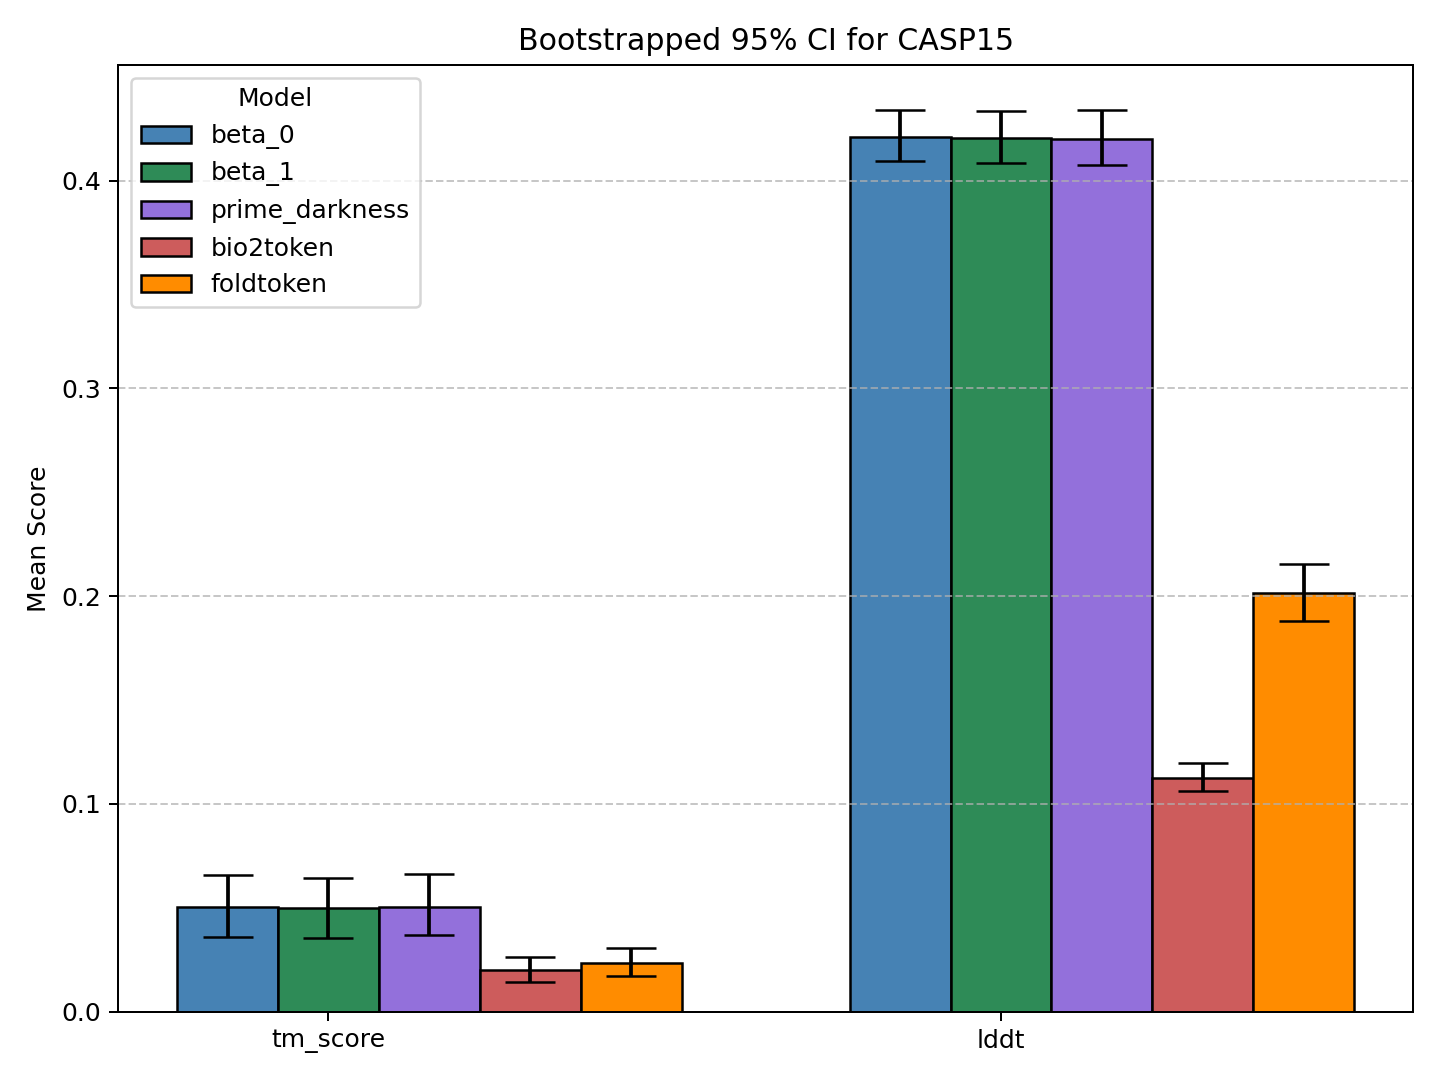
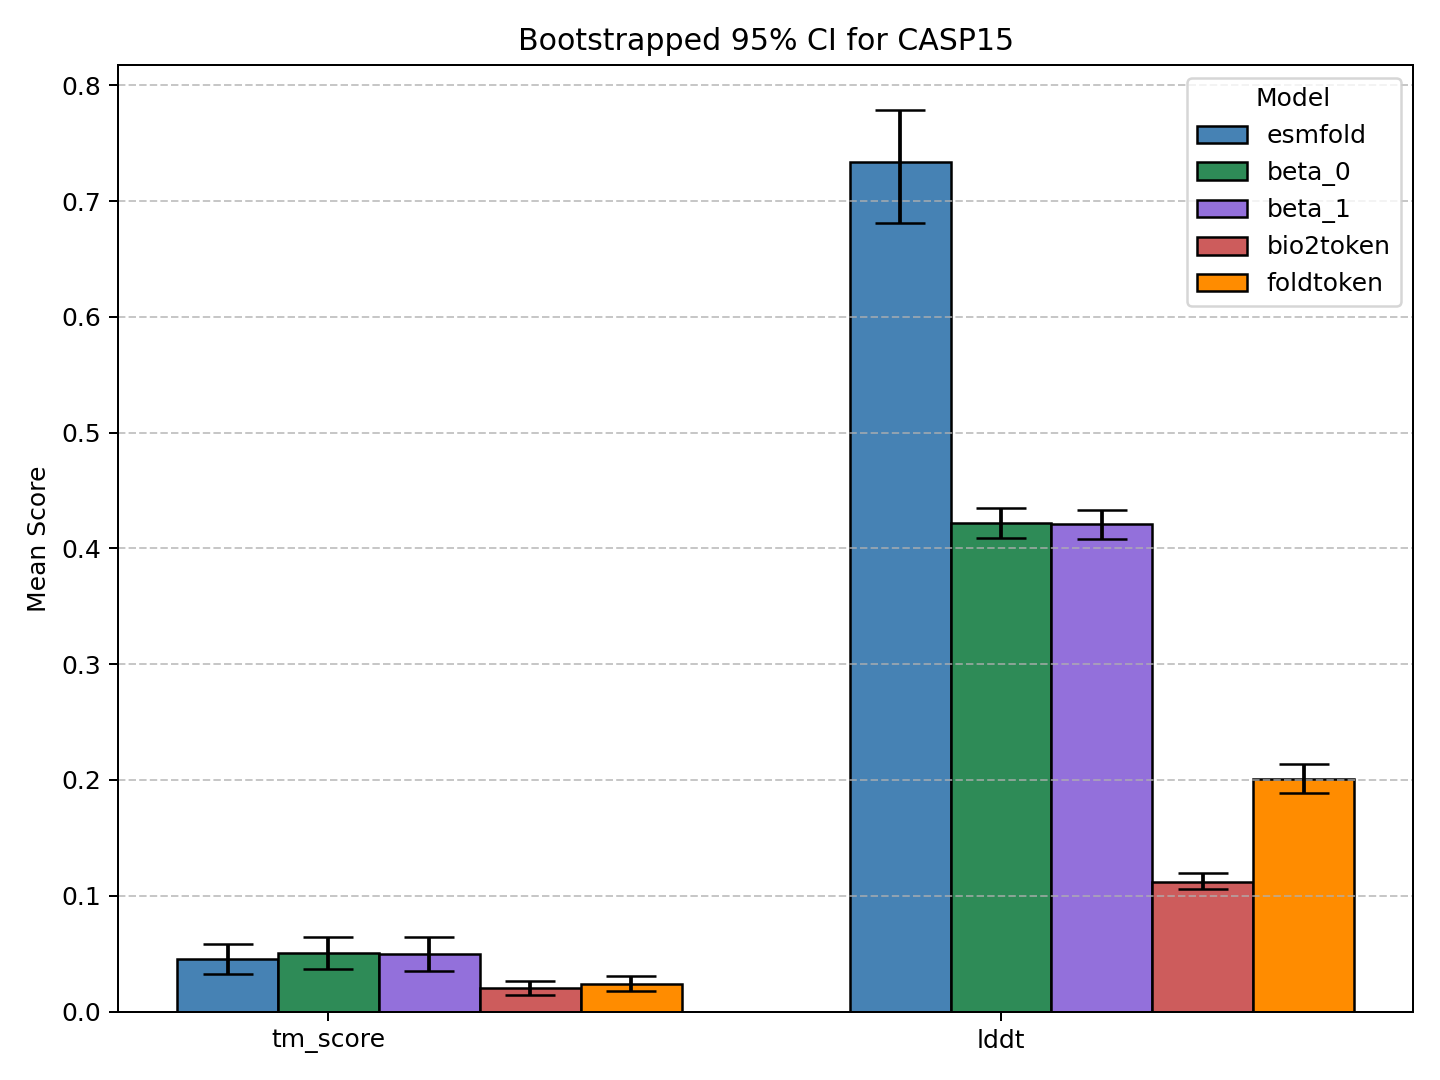
align structures before tm and rmsd calculation

diff --git a/benchmark/model_predictions.py b/benchmark/model_predictions.py
@@ -7,6 +7,7 @@ import torch
 import time
 
 from biotite.structure import lddt, rmsd, tm_score
+from biotite.structure.superimpose import superimpose
 from biotite.structure.filter import _filter_atom_names
 from biotite.structure.io.pdb import PDBFile
 from matplotlib import pyplot as plt
@@ -74,11 +75,21 @@ def get_scores(gt_pdb, pred):
     else:
         pred_protein = gt_protein.copy()
         pred_protein.coord = pred
+
+    # calculate lddt before aligning structures for rmsd and tm score
     lddt_score = float(lddt(gt_protein, pred_protein))
+
+    # Superimpose predicted onto ground-truth
+    superimpose(pred_protein, gt_protein)
+
+    # rmsd
     rmsd_score = float(rmsd(gt_protein, pred_protein))
+
+    # tm score
     all_atoms = len(gt_protein)
     indices = np.arange(all_atoms)
     tm_score_score = tm_score(gt_protein, pred_protein, indices, indices, all_atoms)
+
     return lddt_score, rmsd_score, tm_score_score
 
 
@@ -207,7 +218,6 @@ if __name__ == '__main__':
     p.add_argument("--prostt5", nargs="+", default=[], help="Path(s) to prostt5 checkpoint(s)")
     p.add_argument("--bio2token", nargs="+", default=[], help="Path(s) to bio2token token checkpoint(s)")
     p.add_argument("--foldtoken", nargs="+", default=[], help="Path(s) to foldtoken token checkpoint(s)")
-    p.add_argument("--esm",action="store_true", help="run esm model")
     args = p.parse_args()
 
     # Zähler vorbereiten
